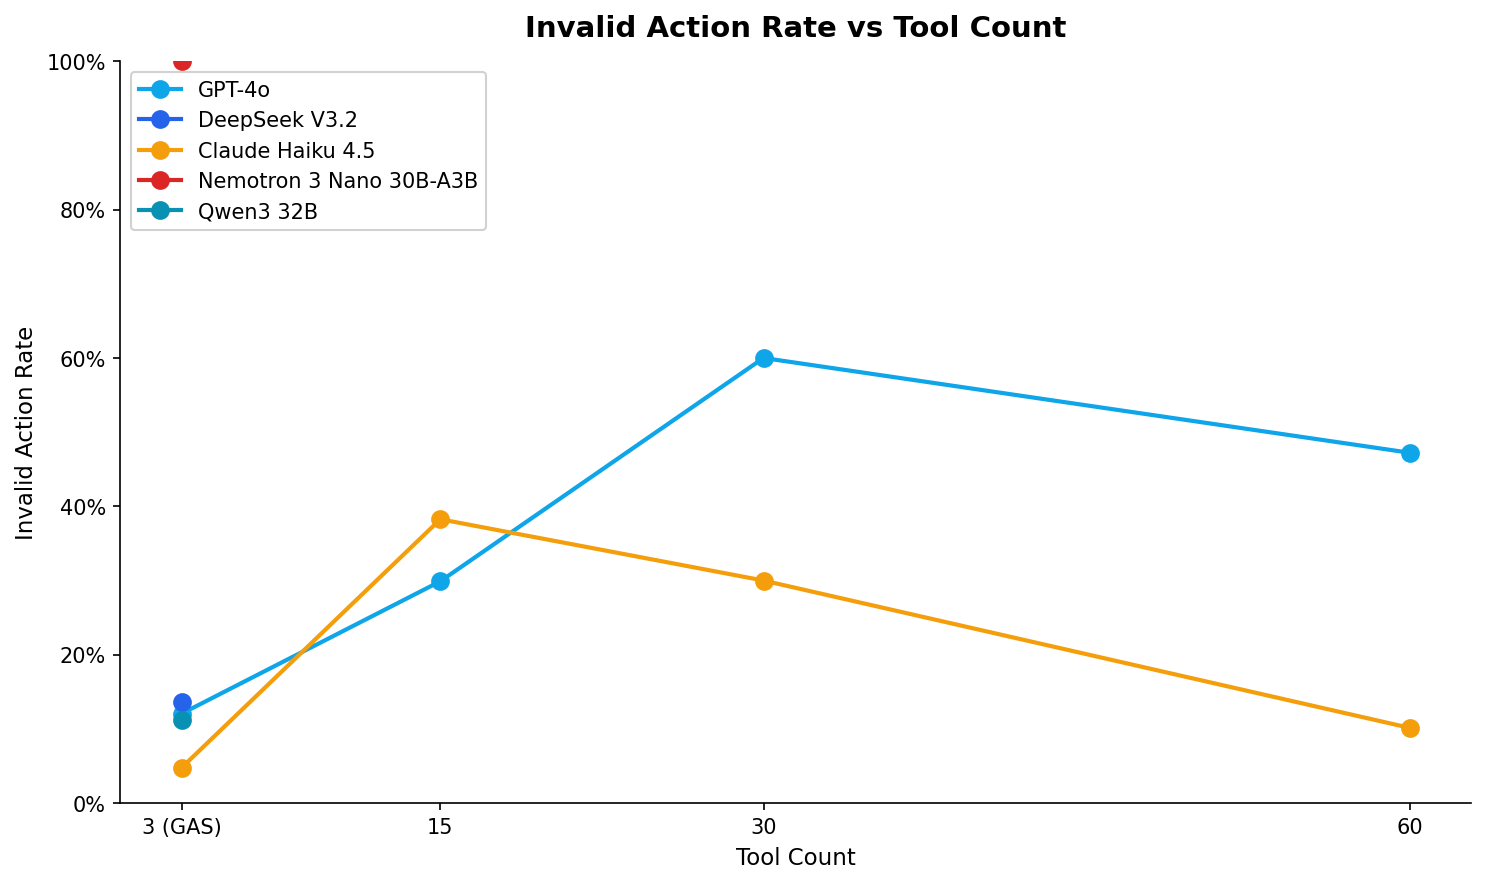
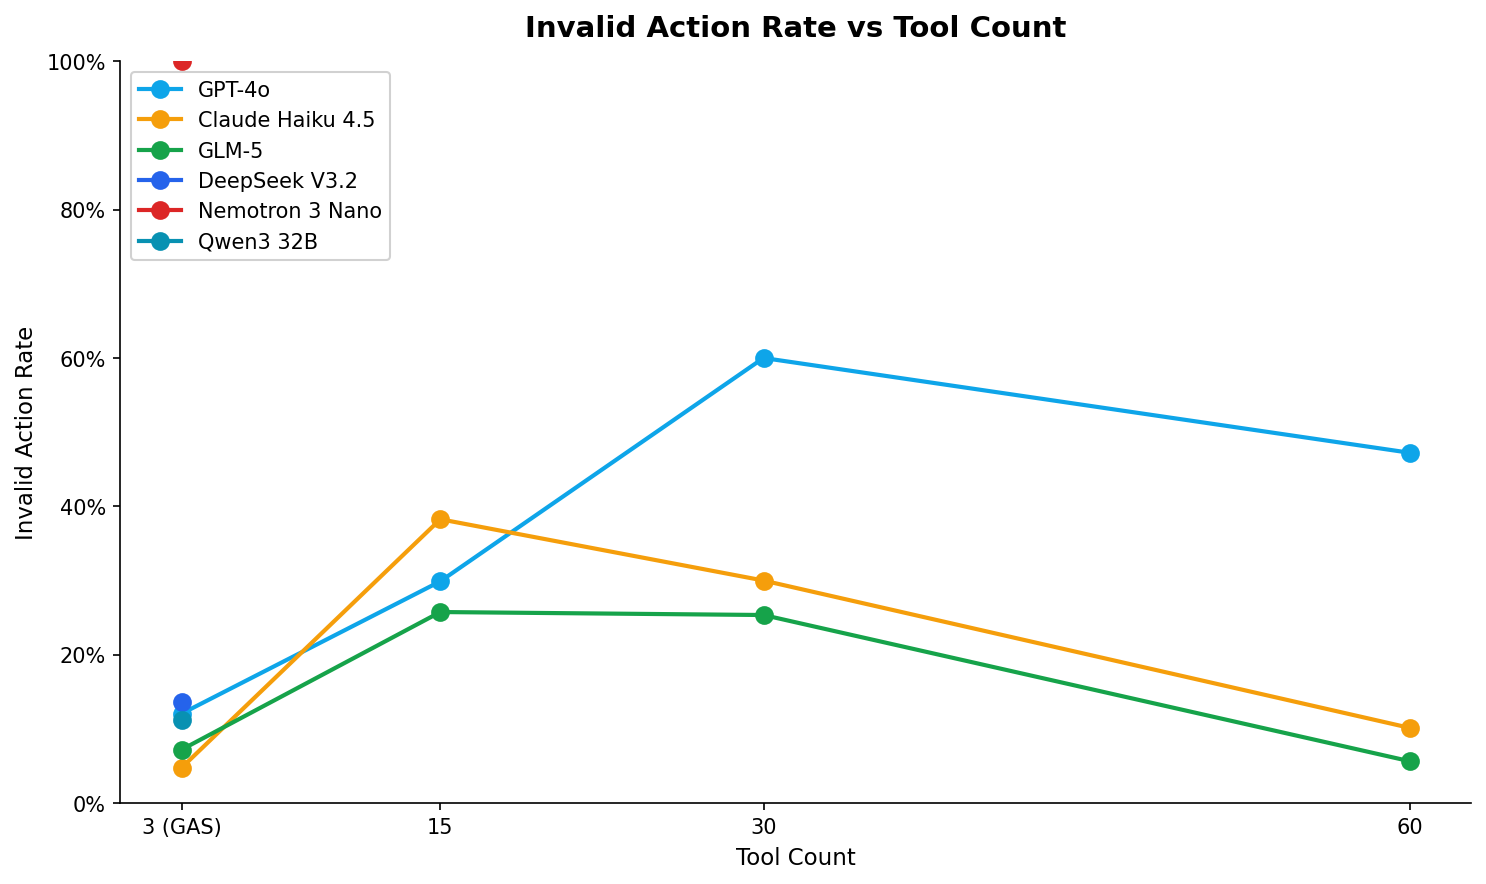
refactor(eval): single-source model catalog for names, labels, colors
Replace hardcoded MODEL_ORDER/MODEL_LABELS/MODEL_COLORS in charts.py
with imports from providers.py ModelCatalogEntry. Legacy DB names
(e.g. "GLM-5") are normalized to canonical names ("GLM-5 (DeepInfra)")
during DataFrame extraction. Adding a model now requires one catalog
entry — charts, CLI, and summaries derive everything automatically.

diff --git a/eval/harness/providers.py b/eval/harness/providers.py
@@ -1,9 +1,14 @@
-"""Model provider configuration for the authoritative eval model list."""
+"""Model provider configuration — single source of truth for the eval model catalog.
+
+All display metadata (labels, colors, ordering) lives here so that
+charts, summaries, and the CLI stay in sync automatically.
+"""
 
 from __future__ import annotations
 
 import os
 import sys
+from dataclasses import dataclass, field
 
 from .config import ModelConfig
 
@@ -11,34 +16,101 @@ DEEPINFRA_API_BASE = "https://api.deepinfra.com/v1/openai"
 OPENAI_API_BASE = "https://api.openai.com/v1"
 ANTHROPIC_API_BASE = "https://api.anthropic.com"
 
-# Canonical eval list (display name + provider in name for clarity).
-DEEPINFRA_MODELS: tuple[tuple[str, str], ...] = (
-    ("GLM-5 (DeepInfra)", os.environ.get("DEEPINFRA_MODEL_GLM_5", "zai-org/GLM-5")),
-    ("DeepSeek V3.2 (DeepInfra)", os.environ.get("DEEPINFRA_MODEL_DEEPSEEK_V3_2", "deepseek-ai/DeepSeek-V3.2")),
-    (
-        "Nemotron 3 Nano 30B-A3B (DeepInfra)",
-        os.environ.get("DEEPINFRA_MODEL_NEMOTRON_3_NANO_30B_A3B", "nvidia/Nemotron-3-Nano-30B-A3B-Instruct"),
+
+@dataclass
+class ModelCatalogEntry:
+    """Authoritative metadata for a model in the eval catalog."""
+    name: str          # canonical DB name, e.g. "GPT-4o (OpenAI)"
+    model_id: str      # API model ID
+    label: str         # short chart label, e.g. "GPT-4o"
+    color: str         # hex color for charts
+    provider: str      # "deepinfra", "openai", "anthropic"
+    tier: str = "open-weights"
+    is_anthropic: bool = False
+    aliases: list[str] = field(default_factory=list)
+    legacy_names: list[str] = field(default_factory=list)
+
+
+# --- Authoritative model catalog ---
+# Order here determines chart ordering.
+
+MODEL_CATALOG: list[ModelCatalogEntry] = [
+    ModelCatalogEntry(
+        name="GPT-4o (OpenAI)",
+        model_id=os.environ.get("OPENAI_MODEL_GPT_4O", "gpt-4o"),
+        label="GPT-4o",
+        color="#0ea5e9",
+        provider="openai",
+        tier="frontier",
+        aliases=["gpt-4o"],
     ),
-    ("Qwen3 32B (DeepInfra)", os.environ.get("DEEPINFRA_MODEL_QWEN3_32B", "Qwen/Qwen3-32B")),
-)
+    ModelCatalogEntry(
+        name="Claude Haiku 4.5 (Anthropic)",
+        model_id=os.environ.get("ANTHROPIC_MODEL_HAIKU_4_5", "claude-haiku-4-5"),
+        label="Claude Haiku 4.5",
+        color="#f59e0b",
+        provider="anthropic",
+        tier="frontier",
+        is_anthropic=True,
+        aliases=["claude-haiku-4.5"],
+    ),
+    ModelCatalogEntry(
+        name="GLM-5 (DeepInfra)",
+        model_id=os.environ.get("DEEPINFRA_MODEL_GLM_5", "zai-org/GLM-5"),
+        label="GLM-5",
+        color="#16a34a",
+        provider="deepinfra",
+        aliases=["glm-5"],
+        legacy_names=["GLM-5"],
+    ),
+    ModelCatalogEntry(
+        name="DeepSeek V3.2 (DeepInfra)",
+        model_id=os.environ.get("DEEPINFRA_MODEL_DEEPSEEK_V3_2", "deepseek-ai/DeepSeek-V3.2"),
+        label="DeepSeek V3.2",
+        color="#2563eb",
+        provider="deepinfra",
+        aliases=["deepseek-v3.2"],
+    ),
+    ModelCatalogEntry(
+        name="Nemotron 3 Nano 30B-A3B (DeepInfra)",
+        model_id=os.environ.get("DEEPINFRA_MODEL_NEMOTRON_3_NANO_30B_A3B", "nvidia/Nemotron-3-Nano-30B-A3B-Instruct"),
+        label="Nemotron 3 Nano",
+        color="#dc2626",
+        provider="deepinfra",
+        aliases=["nemotron-3-nano-30b-a3b"],
+    ),
+    ModelCatalogEntry(
+        name="Qwen3 32B (DeepInfra)",
+        model_id=os.environ.get("DEEPINFRA_MODEL_QWEN3_32B", "Qwen/Qwen3-32B"),
+        label="Qwen3 32B",
+        color="#0891b2",
+        provider="deepinfra",
+        aliases=["qwen3-32b"],
+    ),
+]
 
-OPENAI_MODELS: tuple[tuple[str, str], ...] = (
-    ("GPT-4o (OpenAI)", os.environ.get("OPENAI_MODEL_GPT_4O", "gpt-4o")),
-)
+# --- Derived lookups (built once from catalog) ---
 
-ANTHROPIC_MODELS: tuple[tuple[str, str], ...] = (
-    ("Claude Haiku 4.5 (Anthropic)", os.environ.get("ANTHROPIC_MODEL_HAIKU_4_5", "claude-haiku-4-5")),
-)
+# Ordered canonical names for chart axes
+MODEL_ORDER: list[str] = [e.name for e in MODEL_CATALOG]
 
-# Short aliases accepted by `--model`.
-NAME_ALIASES = {
-    "gpt-4o": "GPT-4o (OpenAI)",
-    "glm-5": "GLM-5 (DeepInfra)",
-    "deepseek-v3.2": "DeepSeek V3.2 (DeepInfra)",
-    "claude-haiku-4.5": "Claude Haiku 4.5 (Anthropic)",
-    "nemotron-3-nano-30b-a3b": "Nemotron 3 Nano 30B-A3B (DeepInfra)",
-    "qwen3-32b": "Qwen3 32B (DeepInfra)",
-}
+# Canonical name → short chart label
+MODEL_LABELS: dict[str, str] = {e.name: e.label for e in MODEL_CATALOG}
+
+# Canonical name → hex color
+MODEL_COLORS: dict[str, str] = {e.name: e.color for e in MODEL_CATALOG}
+
+# Legacy DB name → canonical name (for normalizing old runs)
+LEGACY_NAME_MAP: dict[str, str] = {}
+for _entry in MODEL_CATALOG:
+    for _legacy in _entry.legacy_names:
+        LEGACY_NAME_MAP[_legacy] = _entry.name
+
+# CLI alias → canonical name
+NAME_ALIASES: dict[str, str] = {}
+for _entry in MODEL_CATALOG:
+    for _alias in _entry.aliases:
+        NAME_ALIASES[_alias] = _entry.name
 
 
 def _normalize_name(value: str) -> str:
@@ -46,51 +118,37 @@ def _normalize_name(value: str) -> str:
 
 
 def get_available_models() -> list[ModelConfig]:
-    """Auto-detect available models from the authoritative catalog."""
+    """Auto-detect available models from the catalog based on API keys."""
     models = []
+    key_sources = {
+        "deepinfra": os.environ.get("DEEPINFRA_API_KEY", ""),
+        "openai": os.environ.get("OPENAI_API_KEY", ""),
+        "anthropic": os.environ.get("ANTHROPIC_API_KEY", "") or os.environ.get("ANTHROPIC_KEY", ""),
+    }
+    api_bases = {
+        "deepinfra": DEEPINFRA_API_BASE,
+        "openai": OPENAI_API_BASE,
+        "anthropic": ANTHROPIC_API_BASE,
+    }
 
-    # DeepInfra
-    deepinfra_key = os.environ.get("DEEPINFRA_API_KEY", "")
-    if deepinfra_key:
-        for name, model_id in DEEPINFRA_MODELS:
-            models.append(ModelConfig(
-                name=name,
-                model=model_id,
-                api_base=DEEPINFRA_API_BASE,
-                api_key=deepinfra_key,
-                tier="open-weights",
-            ))
-
-    # OpenAI
-    openai_key = os.environ.get("OPENAI_API_KEY", "")
-    if openai_key:
-        for name, model_id in OPENAI_MODELS:
-            models.append(ModelConfig(
-                name=name,
-                model=model_id,
-                api_base=OPENAI_API_BASE,
-                api_key=openai_key,
-                tier="frontier",
-            ))
-
-    # Anthropic (native SDK — not OpenAI-compatible)
-    anthropic_key = os.environ.get("ANTHROPIC_API_KEY", "") or os.environ.get("ANTHROPIC_KEY", "")
-    if anthropic_key:
-        for name, model_id in ANTHROPIC_MODELS:
-            models.append(ModelConfig(
-                name=name,
-                model=model_id,
-                api_base=ANTHROPIC_API_BASE,
-                api_key=anthropic_key,
-                tier="frontier",
-                is_anthropic=True,
-            ))
+    for entry in MODEL_CATALOG:
+        api_key = key_sources.get(entry.provider, "")
+        if not api_key:
+            continue
+        models.append(ModelConfig(
+            name=entry.name,
+            model=entry.model_id,
+            api_base=api_bases[entry.provider],
+            api_key=api_key,
+            tier=entry.tier,
+            is_anthropic=entry.is_anthropic,
+        ))
 
     return models
 
 
 def get_model_by_name(name: str) -> ModelConfig | None:
-    """Find a model config by display name."""
+    """Find a model config by display name, alias, or model ID."""
     search = _normalize_name(name)
     canonical = NAME_ALIASES.get(search, name)
     canonical_norm = _normalize_name(canonical)

diff --git a/eval/analysis/charts.py b/eval/analysis/charts.py
@@ -4,6 +4,8 @@ from __future__ import annotations
 
 from pathlib import Path
 
+from eval.harness.providers import MODEL_COLORS, MODEL_LABELS, MODEL_ORDER
+
 _RESULTS_DIR = Path(__file__).resolve().parent.parent / "results"
 _DEFAULT_CHARTS = str(_RESULTS_DIR / "charts")
 
@@ -21,31 +23,6 @@ def try_import_plotting():
         )
 
 
-# Consistent model ordering and colors
-MODEL_ORDER = [
-    "GPT-4o (OpenAI)",
-    "GLM-5 (DeepInfra)",
-    "DeepSeek V3.2 (DeepInfra)",
-    "Claude Haiku 4.5 (Anthropic)",
-    "Nemotron 3 Nano 30B-A3B (DeepInfra)",
-    "Qwen3 32B (DeepInfra)",
-]
-MODEL_LABELS = {
-    "GPT-4o (OpenAI)": "GPT-4o",
-    "GLM-5 (DeepInfra)": "GLM-5",
-    "DeepSeek V3.2 (DeepInfra)": "DeepSeek V3.2",
-    "Claude Haiku 4.5 (Anthropic)": "Claude Haiku 4.5",
-    "Nemotron 3 Nano 30B-A3B (DeepInfra)": "Nemotron 3 Nano 30B-A3B",
-    "Qwen3 32B (DeepInfra)": "Qwen3 32B",
-}
-MODEL_COLORS = {
-    "GPT-4o (OpenAI)": "#0ea5e9",
-    "GLM-5 (DeepInfra)": "#16a34a",
-    "DeepSeek V3.2 (DeepInfra)": "#2563eb",
-    "Claude Haiku 4.5 (Anthropic)": "#f59e0b",
-    "Nemotron 3 Nano 30B-A3B (DeepInfra)": "#dc2626",
-    "Qwen3 32B (DeepInfra)": "#0891b2",
-}
 MODE_COLORS = {"gas": "#58a6ff", "trad-15": "#f85149", "trad-30": "#d29922", "trad-60": "#bc8cff"}
 TOOL_COUNT_MAP = {"gas": 3, "trad-15": 15, "trad-30": 30, "trad-60": 60}
 

diff --git a/eval/analysis/extract.py b/eval/analysis/extract.py
@@ -4,7 +4,13 @@ from __future__ import annotations
 
 import json
 
+from eval.harness.providers import LEGACY_NAME_MAP
 from eval.harness.results_db import ResultsDB
+
+
+def _normalize_model_name(name: str) -> str:
+    """Map legacy DB names to current canonical names."""
+    return LEGACY_NAME_MAP.get(name, name)
 
 
 def results_to_records(db: ResultsDB) -> list[dict]:
@@ -16,7 +22,7 @@ def results_to_records(db: ResultsDB) -> list[dict]:
             "task_id": row["task_id"],
             "task_tier": row["task_tier"],
             "mode": row["mode"],
-            "model_name": row["model_name"],
+            "model_name": _normalize_model_name(row["model_name"]),
             "total_turns": row["total_turns"],
             "total_tokens": row["total_tokens_in"] + row["total_tokens_out"],
             "tokens_in": row["total_tokens_in"],
